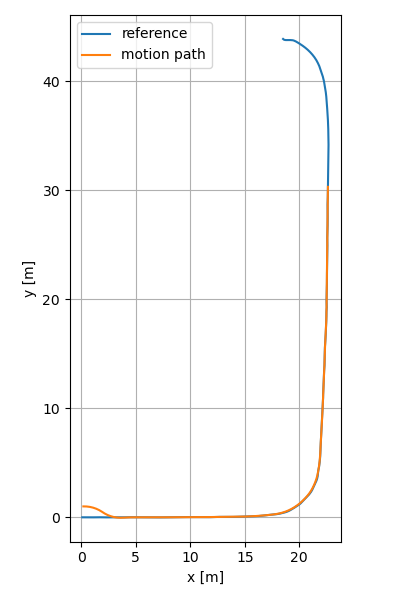
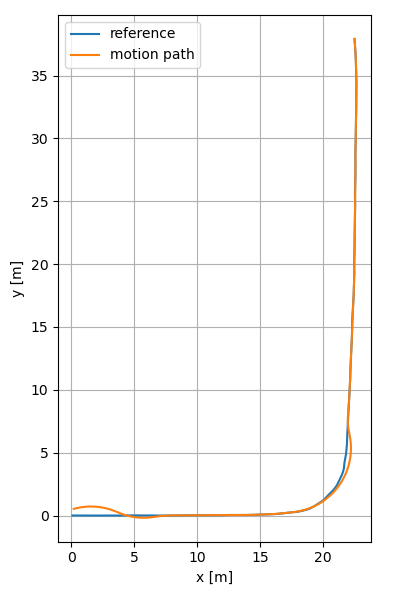
Modify planner

diff --git a/path_tracking/src/LocalPlanner.cpp b/path_tracking/src/LocalPlanner.cpp
@@ -45,23 +45,41 @@ std::vector<WayPoint> LocalPlanner::genLocalPathInter(const Pose& vehiclePose,
 
     // Get the local path ahead of the vehicle using the specified number of poses
     std::vector<WayPoint> localPathAhead = getLocalPathAhead(numPoseAhead);
-
-    // Convert the local path to (x, y) points to fit the polynomial
-    std::vector<Eigen::Vector2d> waypoints;
-    for (const auto& point : localPathAhead)
+    if (localPathAhead.size() < numPoseAhead)
     {
-        waypoints.emplace_back(Eigen::Vector2d(point.x, point.y));
+        // TODO: add as end point
+        std::vector<WayPoint> localTrajectory;
+        for (int i = 0; i < numPoints; i++)
+        {
+            int index = vehicleIndex_ + i;
+            if (index >= globalPath_.size()) index = globalPath_.size() - 1;
+            localTrajectory.emplace_back(globalPath_[index]);
+        }
+        return localTrajectory;
     }
+    else
+    {
+        // Convert the local path to (x, y) points to fit the polynomial
+        std::vector<Eigen::Vector2d> waypoints;
+        for (const auto& point : localPathAhead)
+        {
+            waypoints.emplace_back(Eigen::Vector2d(point.x, point.y));
+        }
 
-    // Fit a polynomial to the waypoints (5th order)
-    const Eigen::VectorXd coefficients = fitPolynomial(waypoints);
+        // Fit a polynomial to the waypoints (5th order)
+        const Eigen::VectorXd coefficients = fitPolynomial(waypoints);
 
-    // Generate points with heading using the internally computed coefficients
-    Pose pose;
-    pose.x   = 0.0;
-    pose.y   = 0.0;
-    pose.yaw = 0.0;
-    return generatePointsWithHeading(coefficients, pose, numPoints, step);
+        // Generate points with heading using the internally computed coefficients
+        Pose pose;
+        pose.x   = 0.0;
+        pose.y   = 0.0;
+        pose.yaw = 0.0;
+        std::vector<WayPoint> pointsWithHeading =
+            generatePointsWithHeading(coefficients, pose, numPoints, step);
+
+        // Convert the generated local path back to global coordinates
+        return convertLocalToGlobal(pointsWithHeading);
+    }
 }
 
 std::vector<WayPoint> LocalPlanner::genLocalPathInterEqual(const Pose& vehiclePose,
@@ -91,7 +109,7 @@ std::vector<WayPoint> LocalPlanner::genLocalPathInterEqual(const Pose& vehiclePo
             pointsWithHeading.push_back(allPoints[i]);
             distance = 0;
         }
-        if(allPoints.size() == numPoints) break;
+        if (allPoints.size() == numPoints) break;
     }
     return pointsWithHeading;
 }
@@ -118,10 +136,10 @@ std::vector<WayPoint> LocalPlanner::getLocalPathAhead(const int& numPoseAhead)
     }
 
     // If not enough points, add the last point repeatedly to match the required number of points
-    while (localPath.size() < static_cast<size_t>(numPoseAhead))
-    {
-        localPath.emplace_back(localPath.back());
-    }
+    // while (localPath.size() < static_cast<size_t>(numPoseAhead))
+    // {
+    //     localPath.emplace_back(localPath.back());
+    // }
 
     return localPath;
 }

diff --git a/example/example_local.cpp b/example/example_local.cpp
@@ -66,17 +66,16 @@ void saveToCSV(const std::string& filename, const std::vector<std::vector<WayPoi
     }
 }
 
-void saveToCSV(const std::string& filename,
-               const std::vector<Pose>& motionPath)
+void saveToCSV(const std::string& filename, const std::vector<WayPoint>& motionPath)
 {
     std::ofstream file(filename);
 
     if (file.is_open())
     {
-        file << "x,y,yaw\n";  // CSV header
+        file << "x,y,yaw,v,steer\n";  // CSV header
         for (const auto& p : motionPath)
         {
-            file << p.x << "," << p.y << "," << p.yaw << "\n";
+            file << p.x << "," << p.y << "," << p.yaw << "," << p.v << "," << p.steer << "\n";
         }
         file.close();
         std::cout << "Trajectory saved to " << filename << std::endl;
@@ -112,8 +111,8 @@ int main(int argc, char** argv)
     // Step 2: Initialize vehicle pose at a starting point
     Pose vehiclePose;
     vehiclePose.x   = globalPath[0].x;
-    vehiclePose.y   = globalPath[0].y+1.0;
-    vehiclePose.yaw = globalPath[0].yaw;
+    vehiclePose.y   = globalPath[0].y + 0.5;
+    vehiclePose.yaw = globalPath[0].yaw + M_PI / 12;
 
     double dt = 0.1;
     Car car(vehiclePose);
@@ -122,28 +121,26 @@ int main(int argc, char** argv)
 
     // Step 3: Animate vehicle movement along the path using genLocalPathInter
     std::vector<std::vector<WayPoint>> data;
-    double totalTime   = 50.0;
+    double totalTime   = 150.0;
     double currentTime = 0.0;
     // for (size_t i = 0; i < globalPath.size() - 30; ++i)
     while (currentTime < totalTime)
     {
         currentTime += 0.1;
         // Use genLocalPathInter to get points with heading
-        std::vector<WayPoint> pointsWithHeading = lp.genLocalPathInter(car.pose, 2 * N, N, 0.1);
-
-        // Convert the generated local path back to global coordinates
-        std::vector<WayPoint> globalPathConverted = lp.convertLocalToGlobal(pointsWithHeading);
+        std::vector<WayPoint> localTrajectory = lp.genLocalPathInter(car.pose, 2 * N, N, 0.05);
 
         // Solve
         ControlSignal signal;
-        int success = controller.solve(car.pose, globalPathConverted, signal);
+        int success = controller.solve(car.pose, localTrajectory, signal);
 
         if (success == 0)
         {
             car.updateState(signal, dt);
         }
+        std::cout << signal.speed << " " << signal.steering << std::endl;
 
-        data.emplace_back(globalPathConverted);
+        data.emplace_back(localTrajectory);
     }
 
     // Save to CSV

diff --git a/example/example_tracking.cpp b/example/example_tracking.cpp
@@ -36,17 +36,16 @@ bool loadBasementData(std::string path, std::vector<std::tuple<double, double, d
 }
 
 // Function to save trajectory to CSV file
-void saveToCSV(const std::string& filename,
-               const std::vector<Pose>& motionPath)
+void saveToCSV(const std::string& filename, const std::vector<WayPoint>& motionPath)
 {
     std::ofstream file(filename);
 
     if (file.is_open())
     {
-        file << "x,y,yaw\n";  // CSV header
+        file << "x,y,yaw,v,steer\n";  // CSV header
         for (const auto& p : motionPath)
         {
-            file << p.x << "," << p.y << "," << p.yaw << "\n";
+            file << p.x << "," << p.y << "," << p.yaw << "," << p.v << "," << p.steer << "\n";
         }
         file.close();
         std::cout << "Trajectory saved to " << filename << std::endl;

diff --git a/path_tracking/include/CarModel.h b/path_tracking/include/CarModel.h
@@ -35,10 +35,7 @@ public:
         pose.yaw = yaw_;
     }
 
-    Car(const Pose& pose_)
-    {
-        pose = pose_;
-    }
+    Car(const Pose& pose_) { pose = pose_; }
 
     ~Car(){};
 
@@ -48,11 +45,17 @@ public:
         pose.y   = pose.y + signal.speed * sin(pose.yaw) * dt;
         pose.yaw = pose.yaw + signal.speed * tan(signal.steering) / wheelbase_ * dt;
 
-        motionPath.emplace_back(pose);
+        WayPoint wp;
+        wp.x     = pose.x;
+        wp.y     = pose.y;
+        wp.yaw   = pose.yaw;
+        wp.v     = signal.speed;
+        wp.steer = signal.steering;
+        motionPath.emplace_back(wp);
     }
 
     Pose pose;
-    std::vector<Pose> motionPath;
+    std::vector<WayPoint> motionPath;
 
 private:
     double wheelbase_ = 2.95;

diff --git a/path_tracking/src/Controller.cpp b/path_tracking/src/Controller.cpp
@@ -25,11 +25,11 @@ Controller::Controller()
 
     // Fix parameter, edit to input config
     double wheelbase   = 2.95;
-    double weight[NY]  = {100., 100., 0.01, 0.1, 0.1};
+    double weight[NY]  = {10., 10., 0.01, 0.1, 0.1};
     double maxV        = 1.0;
     double minV        = 0.0;
-    double maxSteering = M_PI / 4;
-    double minSteering = -M_PI / 4;
+    double maxSteering = M_PI / 6;
+    double minSteering = -M_PI / 6;
     double timeStep    = 0.1;
 
     setTimeStep(timeStep);

diff --git a/python/visual_tracking.py b/python/visual_tracking.py
@@ -17,8 +17,8 @@ df = np.array(df)
 x = df[:,0]
 y = df[:,1]
 yaw = df[:,2]
-# v = df[:,3]
-# steer = df[:,4]
+v = df[:,3]
+steer = df[:,4]
 
 plt.figure(figsize=(4,6))
 plt.plot(xr, yr, label="reference")
@@ -30,10 +30,11 @@ plt.ylabel('y [m]')
 plt.legend()
 plt.tight_layout()
 
-# plt.figure()
-# plt.plot(v)
-# plt.plot(steer)
-# plt.grid(True)
 file_name = "data/tracking.png"
 plt.savefig(file_name)
+
+plt.figure()
+plt.plot(v)
+plt.plot(steer)
+plt.grid(True)
 plt.show()

diff --git a/example/example_preprocess.cpp b/example/example_preprocess.cpp
@@ -80,7 +80,7 @@ int main(int argc, char** argv)
     }
 
     std::vector<WayPoint> trajectory;
-    double ds  = 0.1;  // Distance between consecutive points
+    double ds  = 0.05;  // Distance between consecutive points
     SplineContext context;
     if (method == 0)    // 0 - B Spline, 1 - Cubic Spline
     {
